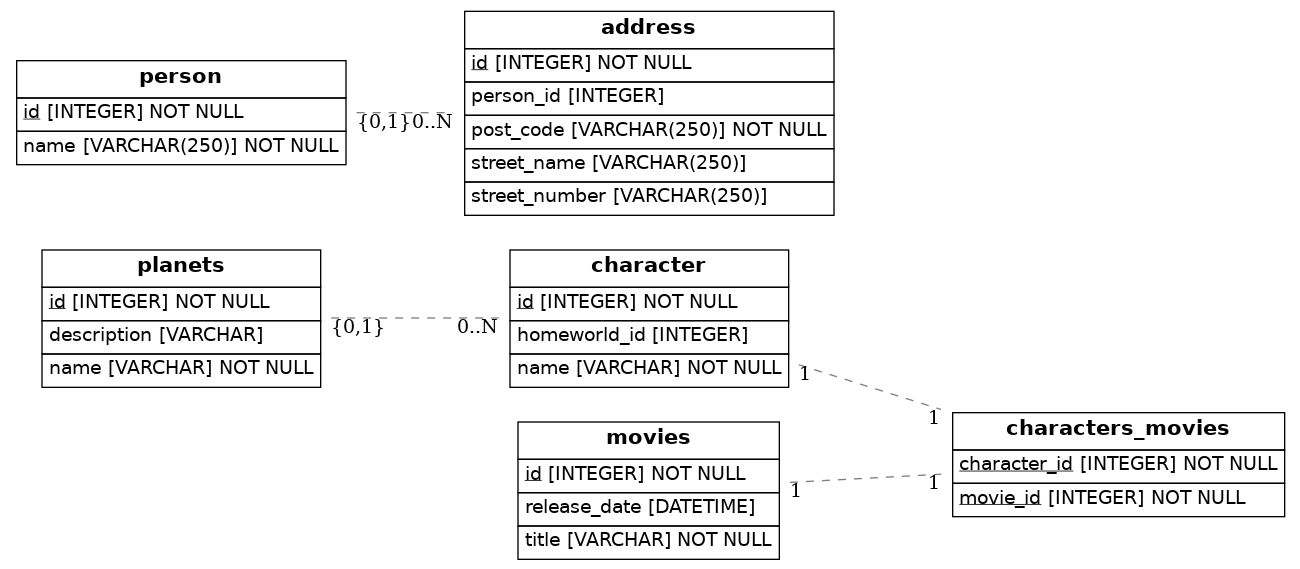
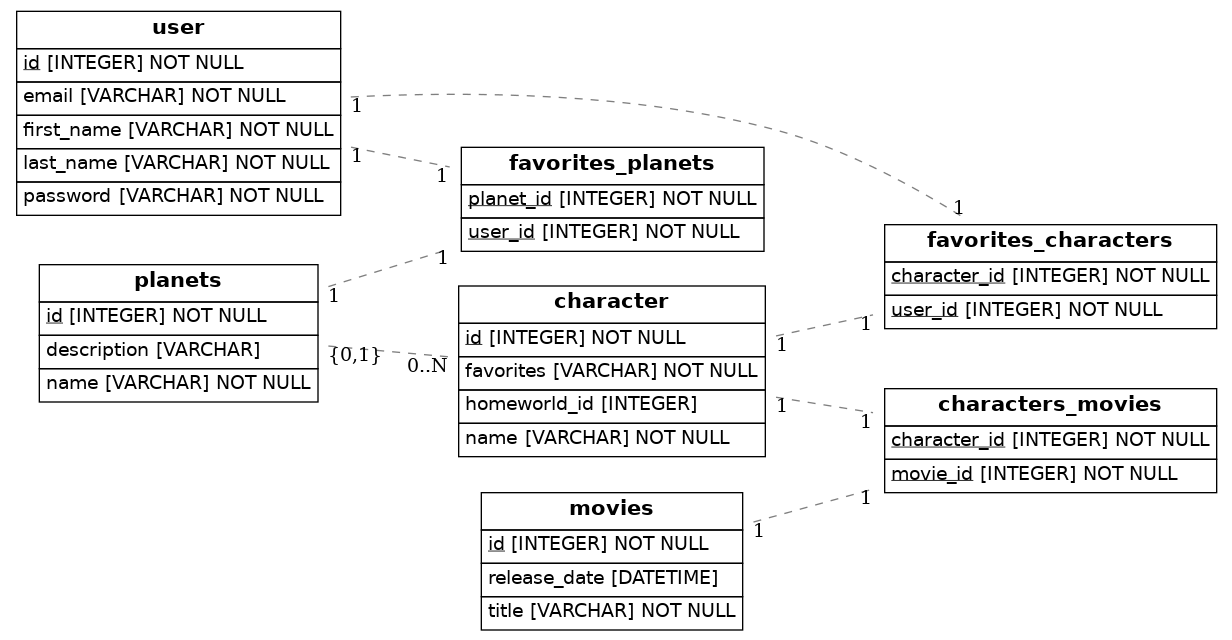
avances

diff --git a/src/models.py b/src/models.py
@@ -7,64 +7,79 @@ from eralchemy2 import render_er
 
 Base = declarative_base()
 
+# Tabla  para la relación muchos a muchos entre personajes y películas
 characters_movies = Table('characters_movies', Base.metadata,
     Column('character_id', Integer, ForeignKey('character.id'), primary_key=True),
     Column('movie_id', Integer, ForeignKey('movies.id'), primary_key=True)
 )
 
+# Tabla  para los favoritos de personajes
+favorites_characters = Table('favorites_characters', Base.metadata,
+    Column('user_id', Integer, ForeignKey('user.id'), primary_key=True),
+    Column('character_id', Integer, ForeignKey('character.id'), primary_key=True)
+)
+
+# Tabla  para los favoritos de planetas
+favorites_planets = Table('favorites_planets', Base.metadata,
+    Column('user_id', Integer, ForeignKey('user.id'), primary_key=True),
+    Column('planet_id', Integer, ForeignKey('planets.id'), primary_key=True)
+)
+
+# Clase para los usuarios del blog
+class User(Base):
+    __tablename__ = 'user'
+    id = Column(Integer, primary_key=True)
+    email = Column(String, nullable=False, unique=True)
+    password = Column(String, nullable=False)
+    first_name = Column(String, nullable=False)
+    last_name = Column(String, nullable=False)
+    
+    # Relación de favoritos (personajes y planetas)
+    favorite_characters = relationship('Character', secondary=favorites_characters, back_populates='favorited_by')
+    favorite_planets = relationship('Planet', secondary=favorites_planets, back_populates='favorited_by')
+
+# Clase para los personajes
 class Character(Base):
     __tablename__ = 'character'
-    # Here we define columns for the table person
-    # Notice that each column is also a normal Python instance attribute.
     id = Column(Integer, primary_key=True)
     name = Column(String, nullable=False)
     homeworld_id = Column(Integer, ForeignKey("planets.id"))
+    favorites = Column(String, nullable=False)
 
     homeworld = relationship('Planet', back_populates='residents') 
-    movies = relationship('Movie', secondary=characters_movies, back_populates='characters')  
+    movies = relationship('Movie', secondary=characters_movies, back_populates='characters')
+    
+    # Relación con usuarios que han guardado este personaje como favorito
+    favorited_by = relationship('User', secondary=favorites_characters, back_populates='favorite_characters')
 
+# Clase para los planetas
 class Planet(Base):
     __tablename__ = 'planets'
-    
     id = Column(Integer, primary_key=True)
-    name = Column(String, nullable=False) 
-    description = Column(String, nullable=True)  
-    
-    
+    name = Column(String, nullable=False)
+    description = Column(String, nullable=True)
+
     # Relación con personajes (un planeta puede tener varios personajes)
     residents = relationship('Character', back_populates='homeworld')
+    
+    # Relación con usuarios que han guardado este planeta como favorito
+    favorited_by = relationship('User', secondary=favorites_planets, back_populates='favorite_planets')
 
+# Clase para las películas
 class Movie(Base):
     __tablename__ = 'movies'
-    
     id = Column(Integer, primary_key=True)
-    title = Column(String, nullable=False)  
-    release_date = Column(DateTime, nullable=True)  
-    
+    title = Column(String, nullable=False)
+    release_date = Column(DateTime, nullable=True)
+
     # Relación muchos a muchos con personajes
     characters = relationship('Character', secondary=characters_movies, back_populates='movies')
 
+# Generar el diagrama ER
+try:
+    result = render_er(Base, 'diagram.png')
+    print("Diagrama generado correctamente.")
+except Exception as e:
+    print("Error al generar el diagrama:", e)
 
-# class Person(Base):
-#     __tablename__ = 'person'
-#     # Here we define columns for the table person
-#     # Notice that each column is also a normal Python instance attribute.
-#     id = Column(Integer, primary_key=True)
-#     name = Column(String(250), nullable=False)
 
-# class Address(Base):
-#     __tablename__ = 'address'
-#     # Here we define columns for the table address.
-#     # Notice that each column is also a normal Python instance attribute.
-#     id = Column(Integer, primary_key=True)
-#     street_name = Column(String(250))
-#     street_number = Column(String(250))
-#     post_code = Column(String(250), nullable=False)
-#     person_id = Column(Integer, ForeignKey('person.id'))
-#     person = relationship(Person)
-
-#     def to_dict(self):
-#         return {}
-
-## Draw from SQLAlchemy base
-render_er(Base, 'diagram.png')
